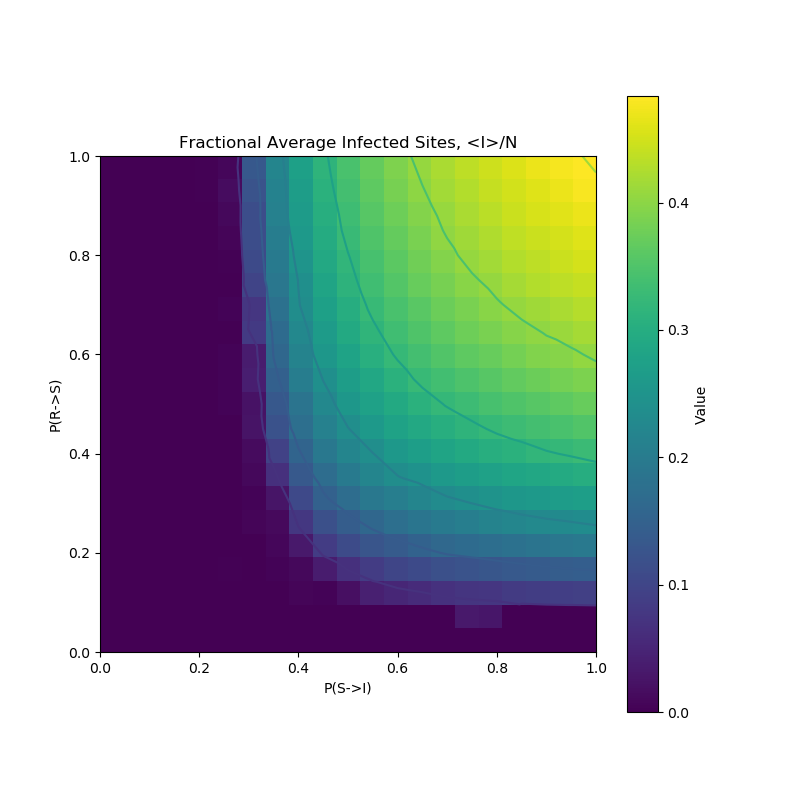
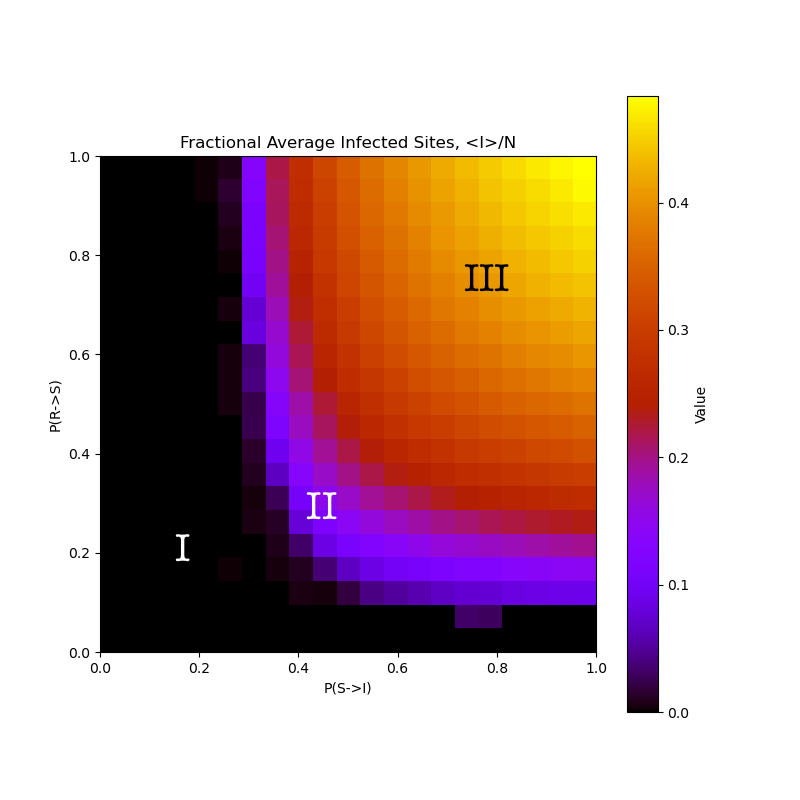
Removed unnecessary figures and improved models

diff --git a/Models/Control.py b/Models/Control.py
@@ -19,36 +19,37 @@ from Deceased import Deceased
 #################################MODEL##################################
 ########################################################################
 
-def InitialisePop(i_0,S,I):
+# Runs the SIR model simulation
+def RunModel(i_0,iters,S,I,R,H,CC,PC,D):
+
     # Initial values normalise population to 1
     S.vals[0] = 1 - i_0
     I.vals[0] = i_0
     S.new_val[0] = S.vals[0]
     I.new_val[0] = I.vals[0]
 
-# Runs the SIR model simulation
-def RunModel(iters,S,I,R,CC):
     # Main loop to update values for each timestep
     for t in range(iters-1):
         # Calculates the newly infected and recovered proportions at time t
         I.new_val[t] = I.Update(t,S.vals)
+        H.new_val[t] = R.Update(t,I.new_val)
+        CC.new_val[t] = R.Update(t,H.new_val)
+        PC.new_val[t] = R.Update(t,CC.new_val)
+        
+        new_rs = (I.new_val[t] + H.new_val[t] + CC.new_val[t] + PC.new_val[t])
         R.new_val[t] = R.Update(t,I.new_val)
-        S.new_val[t] = S.Update(t,R.new_val)
 
-        print('Day {0:1}: dS = {1:1.3e}, dI = {2:1.3e}, dR = {3:1.3e}'.format(t, S.new_val[t]-I.new_val[t], I.new_val[t]-R.new_val[t], R.new_val[t]-S.new_val[t]))
+        S.new_val[t] = S.Update(t,R.new_val)
+        
+        new_ds = mu * (S.new_val[t] + I.new_val[t] + H.new_val[t] + CC.new_val[t] + PC.new_val[t])
+        D.new_val[t] = D.Update(t,new_ds)
+
+        #print('Day {0:1}: dS = {1:1.3e}, dI = {2:1.3e}, dR = {3:1.3e}'.format(t, S.new_val[t]-I.new_val[t], I.new_val[t]-R.new_val[t], R.new_val[t]-S.new_val[t]))
         
         # Uses the new values to update the main compartment arrays at the next timestep
         S.vals[t+1] = S.vals[t] + S.new_val[t] - I.new_val[t] 
         I.vals[t+1] = I.vals[t] + I.new_val[t] - R.new_val[t]
         R.vals[t+1] = R.vals[t] + R.new_val[t] - S.new_val[t]
-
-        # Adjusts the infection rate based on how many people are infected, this simulates lockdown measures
-        '''Once CC is implemented this should be adjusted to if CC.vals[t] >= 0.5 * CC.max_capacity'''
-        '''if I.vals[t] >= 5 * CC.max_capacity:
-            I.beta *= 0.8
-        # After measures are put in place people become complacent and stop following the rules thus infection rate will slowly increase as each day passes
-        elif I.beta <= 1:
-            I.beta *= 1.02'''
 
     return S, I, R
 
@@ -57,7 +58,7 @@ def RunModel(iters,S,I,R,CC):
 ########################################################################
 
 # Plots the Compartments values in percentage of the total population against time in days
-def plot_sir_model(compartments,iters,cc):
+def plot_sirs_model(compartments,iters,cc):
     plt.figure(figsize=(10, 6))
 
     # Plots the data curves for each compartment
@@ -94,19 +95,16 @@ if __name__ == "__main__":
     S = Susceptible('Susceptible',iters,max_prob_S)
     I = Infected('Infected',iters,beta)
     R = Resistant('Resistant',iters,max_prob_R,maxT)
-    #H = Hospitalised('Hospitalised',iters)
+    H = Hospitalised('Hospitalised',iters)
     CC = CriticalCare('Critical Care',iters,max_capacity)
-    #PC = PostCritical('Post Critical',iters)
-    #D = Deceased('Deceased',iters)
-
-    # Initialise the system such that the population is normalised with everyone in susceptible except from i_0 being infected
-    InitialisePop(i_0,S,I)
+    PC = PostCritical('Post Critical',iters)
+    D = Deceased('Deceased',iters)
 
     # Runs model and returns a list of the compartments
-    compartments = RunModel(iters,S,I,R,CC)
+    compartments = RunModel(i_0,iters,S,I,R,H,CC,PC,D)
     
     # Plot data
-    plot_sir_model(compartments,iters,CC)
+    plot_sirs_model(compartments,iters,CC)
 
 ########################################################################
 ################################NOTES###################################

diff --git a/Models/Trial_Models/SIRadvanced.py b/Models/Trial_Models/SIRadvanced.py
@@ -72,9 +72,8 @@ def runModel(i_0,iters,max_prob_R,max_prob_S,maxT):
     newS[0] = S[0]
     newI[0] = I[0]
 
-    # Defines the infection rate and the critical care capacity which determines whether lockdown measures are required which then triggers a reduction in beta
-    beta = 1
-    crit_lim = 0.1
+    # Defines the infection rate
+    beta = 0.218
 
     # Main loop to update values for each timestep
     for t in range(iters - 1):
@@ -83,17 +82,12 @@ def runModel(i_0,iters,max_prob_R,max_prob_S,maxT):
         newR[t] = updateR(t,newI,max_prob_R,maxT)
         newS[t] = updateS(t,newR,max_prob_S)
 
-        print("Day: " + str(t + 1) + ", dS = " + str(newS[t]-newI[t]) + ", dI = " + str(newI[t]-newR[t]) + ", dR = " + str(newR[t]-newS[t]))
-        
+        print("Day: " + str(t + 1))
+
         # Uses the new values to update the main compartment arrays at the next timestep
         S[t+1] = S[t] + newS[t] - newI[t] 
         I[t+1] = I[t] + newI[t] - newR[t]
         R[t+1] = R[t] + newR[t] - newS[t]
-
-        if I[t] >= 0.5 * crit_lim:
-            beta *= 0.5
-        else:
-            beta *= 1.001
 
     return S, I, R
 
@@ -104,9 +98,9 @@ def runModel(i_0,iters,max_prob_R,max_prob_S,maxT):
 # Plots the Compartments values in percentage of the total population against time in days
 def plot_sir_model(S, I, R, iters):
     plt.figure(figsize=(10, 6))
-    plt.plot(range(iters), S, label='Susceptible')
-    plt.plot(range(iters), I, label='Infected')
-    plt.plot(range(iters), R, label='Resistant')
+    plt.plot(range(iters), 100*S, label='Susceptible')
+    plt.plot(range(iters), 100*I, label='Infected')
+    plt.plot(range(iters), 100*R, label='Resistant')
     plt.xlabel('Time (Days)')
     plt.ylabel('% of Population')
     plt.title('SIRS Model Simulation')

diff --git a/Models/Trial_Models/SEIRS.py b/Models/Trial_Models/SEIRS.py
@@ -13,7 +13,7 @@ def seirs_model(beta, gamma, alpha, mu, omega, sigma, days):
     I[0] = 0
     R[0] = 0
 
-    # SIIR model simulation
+    # SEIR model simulation
     for t in range(1,days):
         S[t] = max(0,S[t-1] + (mu - (beta * I[t-1] * S[t-1]) + (omega * R[t-1]) - (mu * S[t-1])))
         E[t] = max(0,E[t-1] + ((beta * I[t-1] * S[t-1]) - (sigma * E[t-1]) - (mu * E[t-1])))
@@ -27,11 +27,10 @@ def seirs_model(beta, gamma, alpha, mu, omega, sigma, days):
 
 def plot_seirs_model(susceptible, exposed, infected, recovered, days):
     plt.figure(figsize=(10, 6))
-    plt.yscale('log')
-    #plt.plot(range(days), 100*susceptible, label='Susceptible')
+    plt.plot(range(days), 100*susceptible, label='Susceptible')
     plt.plot(range(days), 100*exposed, label='Exposed')
     plt.plot(range(days), 100*infected, label='Infected')
-    #plt.plot(range(days), 100*recovered, label='Recovered')
+    plt.plot(range(days), 100*recovered, label='Recovered')
     plt.xlabel('Time (Days)')
     plt.ylabel("ln(% of Population)")
     plt.title('SEIRS Model Simulation')

diff --git a/Models/PlotSpatialSIRS.py b/Models/PlotSpatialSIRS.py
@@ -31,10 +31,10 @@ def ContourPlot():
     ax.set_ylabel('P(R->S)')
     ax.set_title("Fractional Average Infected Sites, <I>/N")
     ax.set_aspect('equal')
-    ax.tricontour(x,y,z)
+    #ax.tricontour(x,y,z)
 
     # Plot the heatmap
-    ht = ax.imshow(z_grid, cmap='viridis', origin='lowerleft', extent=[np.min(x), np.max(x), np.min(y), np.max(y)])
+    ht = ax.imshow(z_grid, cmap='gnuplot', origin='lower', extent=[np.min(x), np.max(x), np.min(y), np.max(y)])
     fig.colorbar(ht,ax=ax,label="Value")  # Add a colorbar
     plt.savefig('Documents/Images/ContourPlot.png')
     plt.show()
